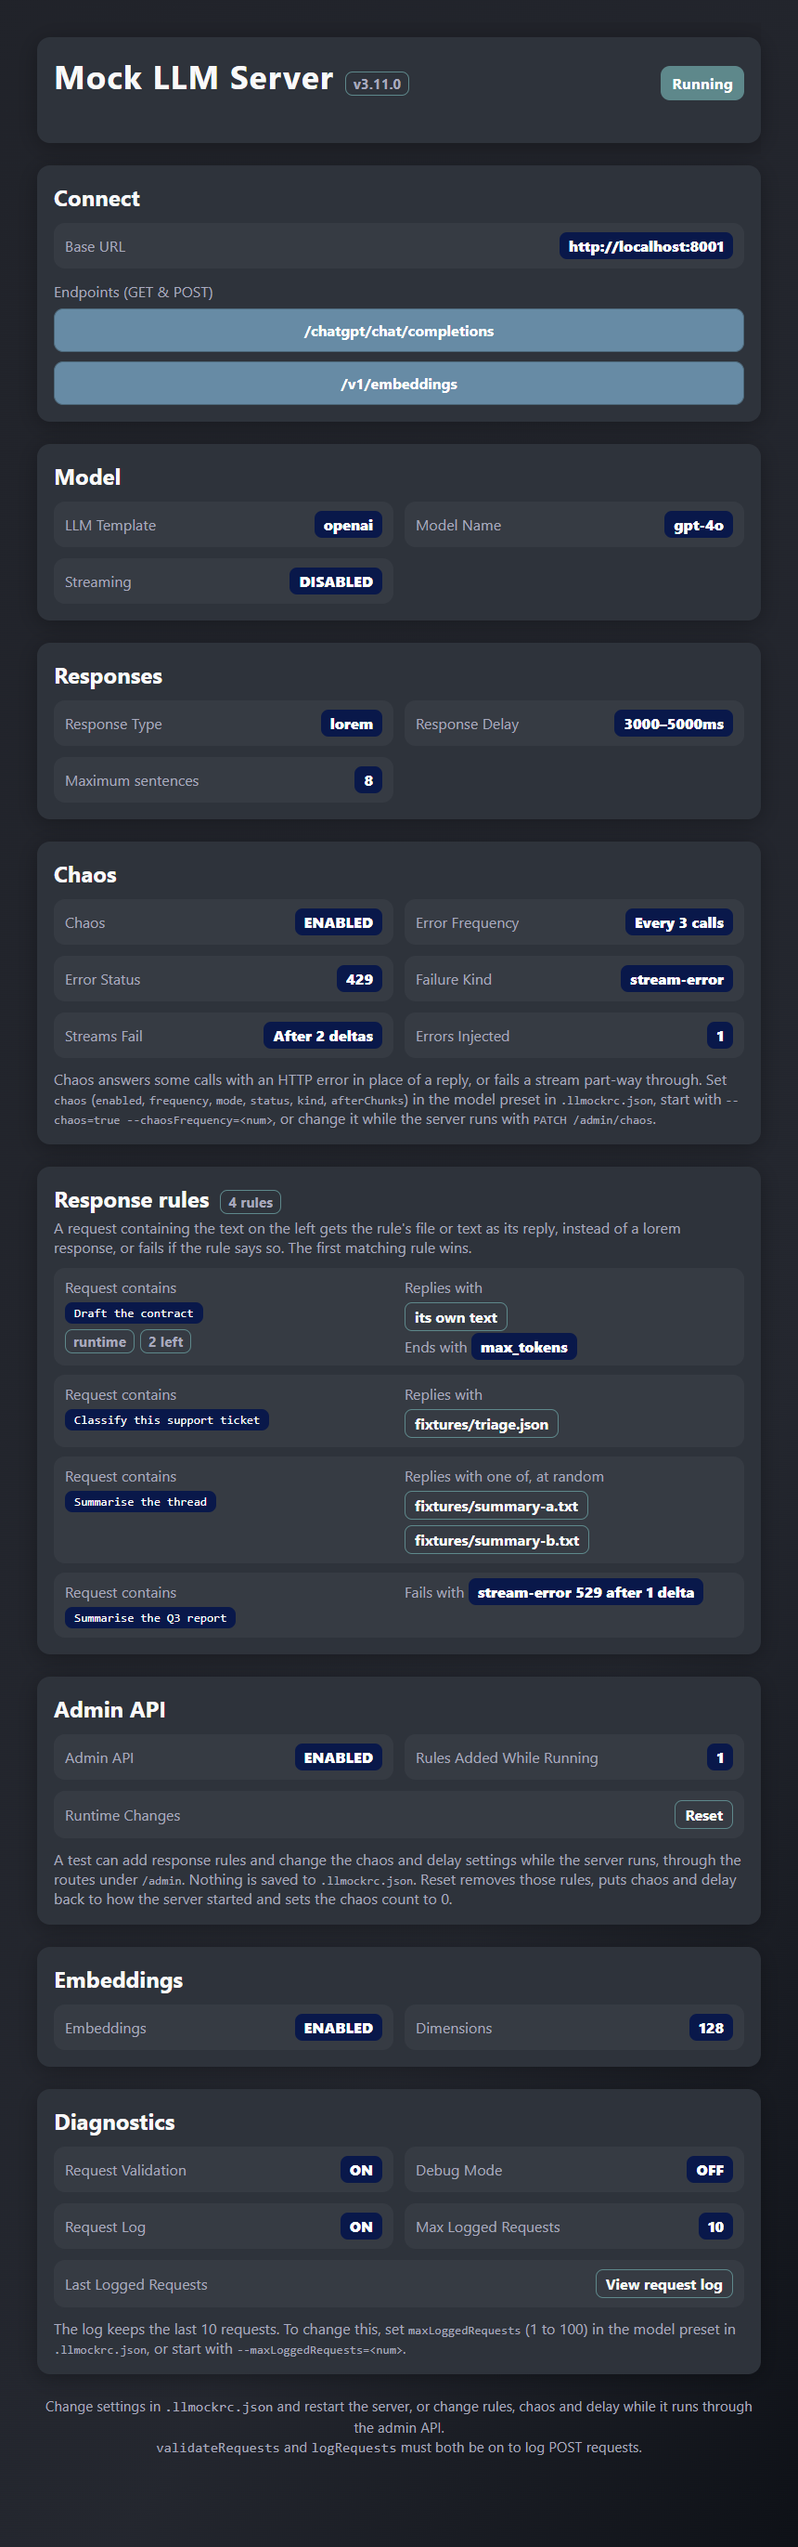
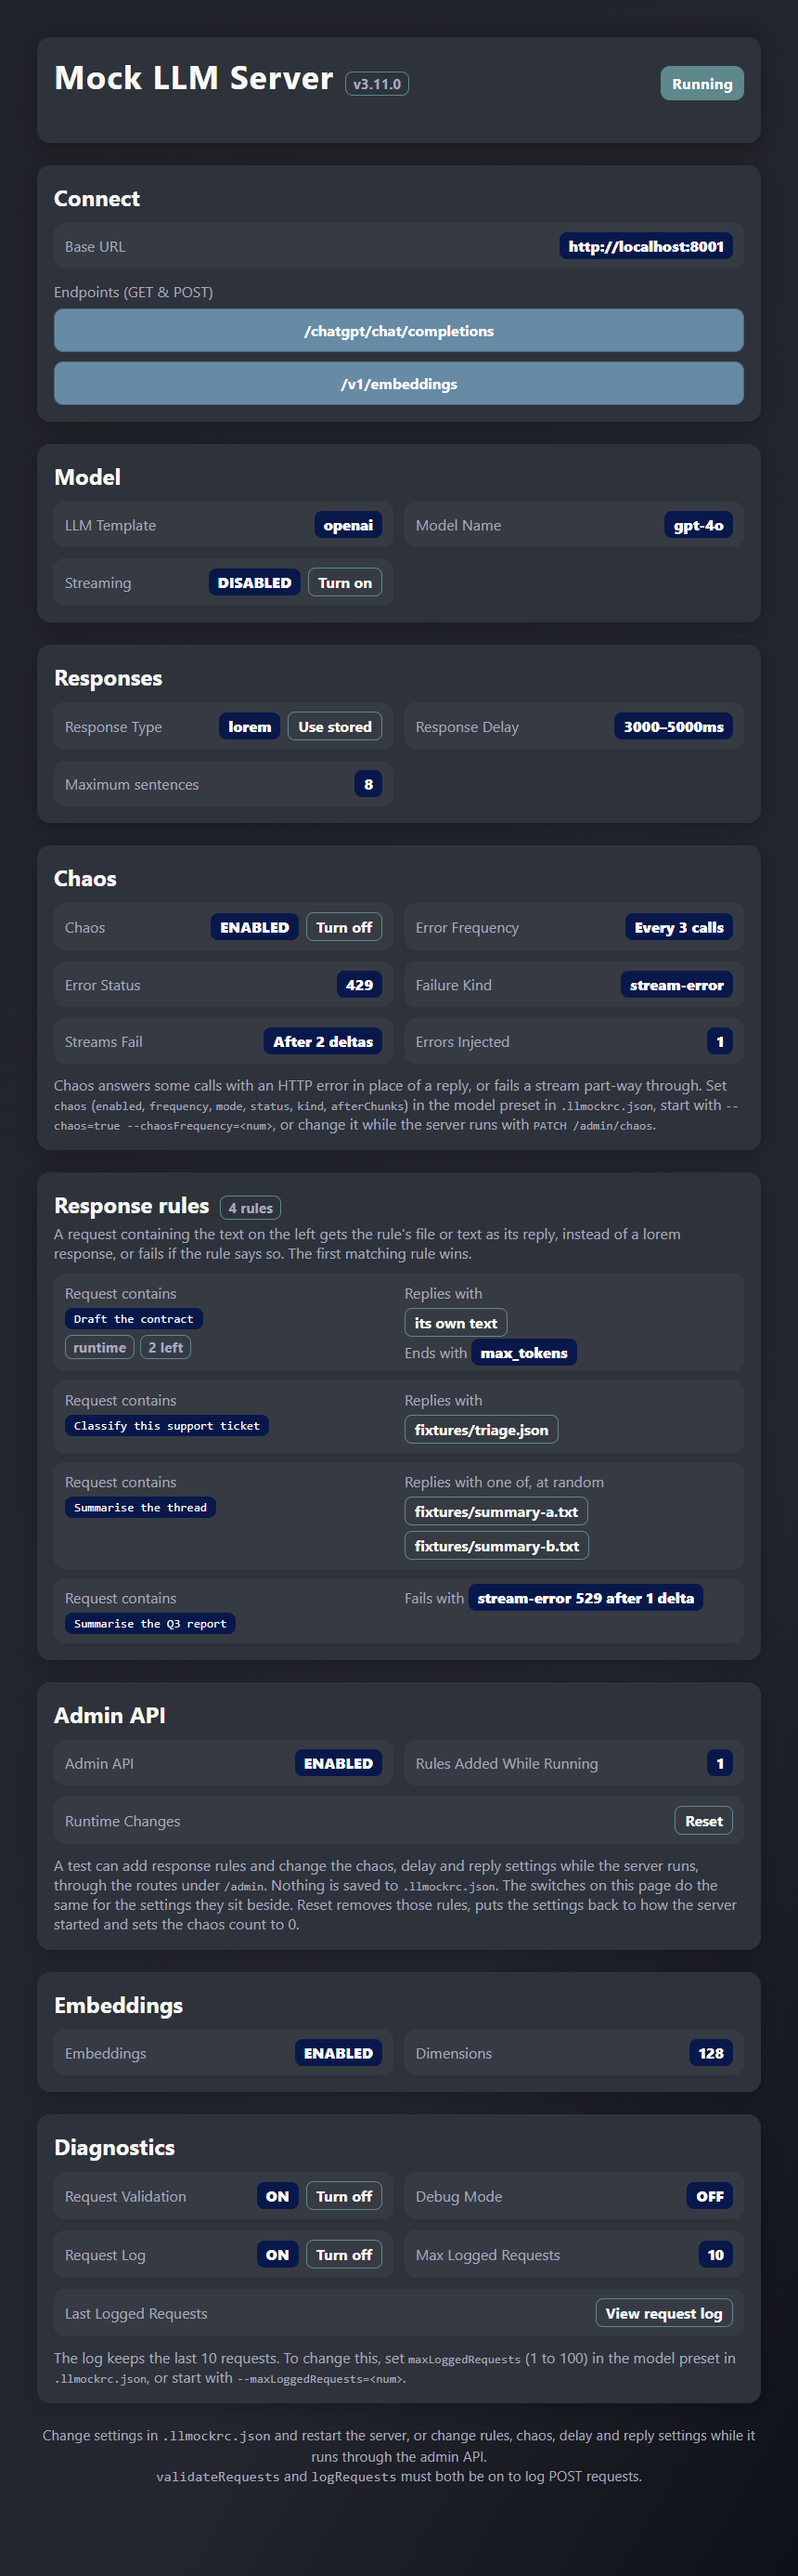
docs(): document the dashboard switches and retake the screenshots

diff --git a/README.md b/README.md
@@ -707,6 +707,8 @@ The flag wins over the environment variable, which wins over the config file. In
 
 With `responseType: "stored"` the dashboard names the stored responses file in use (or `Bundled`); click it to read every response in the pool. The **Response rules** box lists each of the preset's `responseRules` as its `match` text beside the file(s) it replies with, how the reply ends when the rule sets a `stopReason` other than `end`, and how the call fails when the rule sets `fail`; click a file to read its contents. A rule that holds its reply as `text` shows **its own text** in place of a file; click it to read the text. A rule added through the [admin API](#admin-api-changing-rules-and-settings-while-running) is listed first and marked **runtime**; one with `times` also shows how many requests it has left. With no rules set, the box shows a blank rule with a note pointing to the setting.
 
+While the admin API is on, the settings with two values have a button beside them that changes the running server: **Response Type** (lorem or stored), **Streaming**, **Chaos**, **Request Validation** and **Request Log**. A change made this way is not saved; **Reset** or a restart puts it back. (Streaming has no button on the `claude` template, where each request says whether it wants a stream.)
+
 The **Admin API** box says whether the admin API is on and how many rules were added while running. **Reset** does what `POST /admin/reset` does, after asking you to confirm: it removes those rules, puts chaos and delay back to how the server started and sets the chaos count to 0.
 
 ### Available endpoints

diff --git a/UI-Dev.md b/UI-Dev.md
@@ -31,7 +31,7 @@ This project includes a Svelte-based dashboard for inspecting and testing the mo
   - `adminApi` (`ENABLED` or `DISABLED`)
   - `uiTheme` (`dark` or `light`, from `UI_THEME`, `--uiTheme` or `server.uiTheme`). The server also writes it to the page as `<html data-theme="…">`, which is what `ui/src/styles.css` goes by; colours are CSS variables on `:root`, with the light theme's under `:root[data-theme='light']`
 
-- The viewer dialog reads file contents from `/ui-stored-responses` and `/ui-rule-file?rule=<i>&file=<j>` (`i` is the rule's place among the config file's rules, not counting runtime rules), and the most recent logged requests (10 unless `maxLoggedRequests` is set) from `/ui-request-log`, shown one at a time. **Clear logs** sends `DELETE /ui-request-log`. A rule's own `text` is shown straight from `/ui-meta`. **Reset** in the Admin API box sends `POST /admin/reset`.
+- The viewer dialog reads file contents from `/ui-stored-responses` and `/ui-rule-file?rule=<i>&file=<j>` (`i` is the rule's place among the config file's rules, not counting runtime rules), and the most recent logged requests (10 unless `maxLoggedRequests` is set) from `/ui-request-log`, shown one at a time. **Clear logs** sends `DELETE /ui-request-log`. A rule's own `text` is shown straight from `/ui-meta`. **Reset** in the Admin API box sends `POST /admin/reset`. The switch buttons (`cy-data="switch_…"`) send `PATCH /admin/settings` or `PATCH /admin/chaos` and are only drawn while `adminApi` is `ENABLED`.
 
 ### Running everything locally
 
